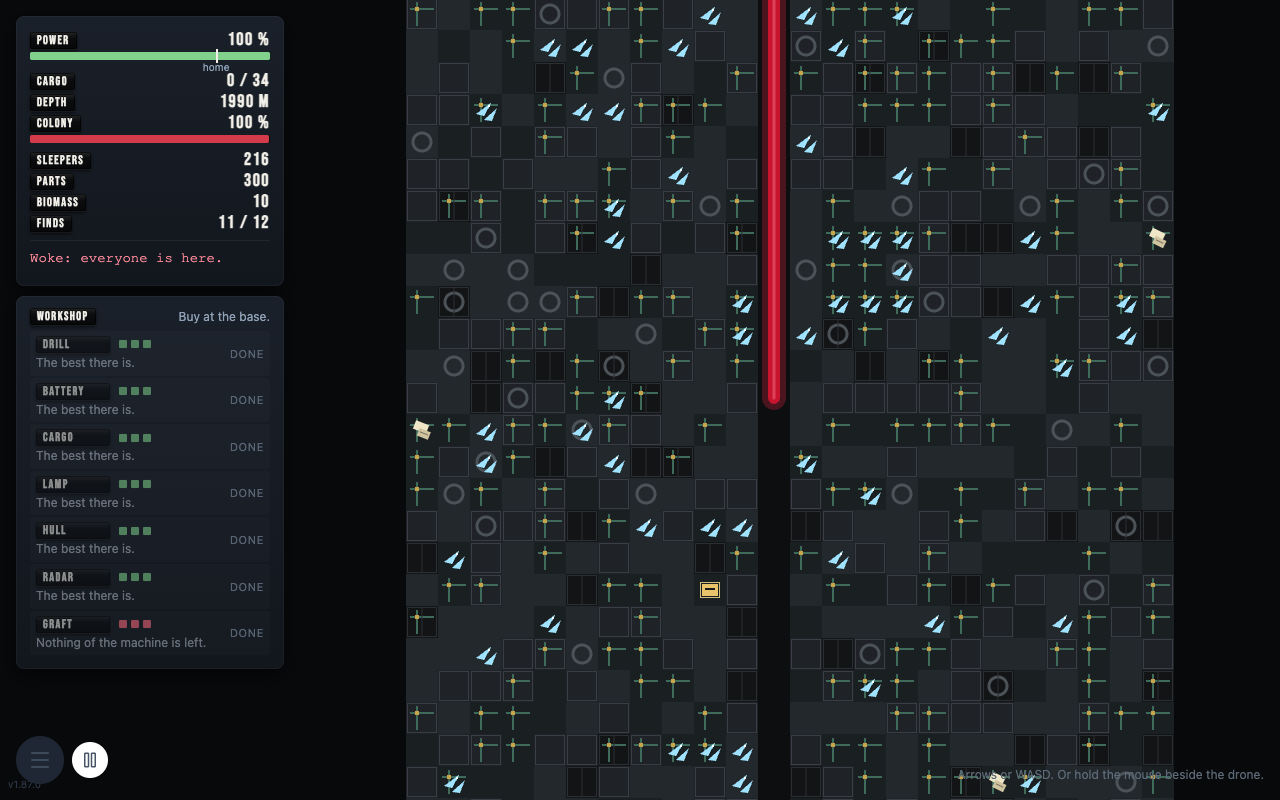
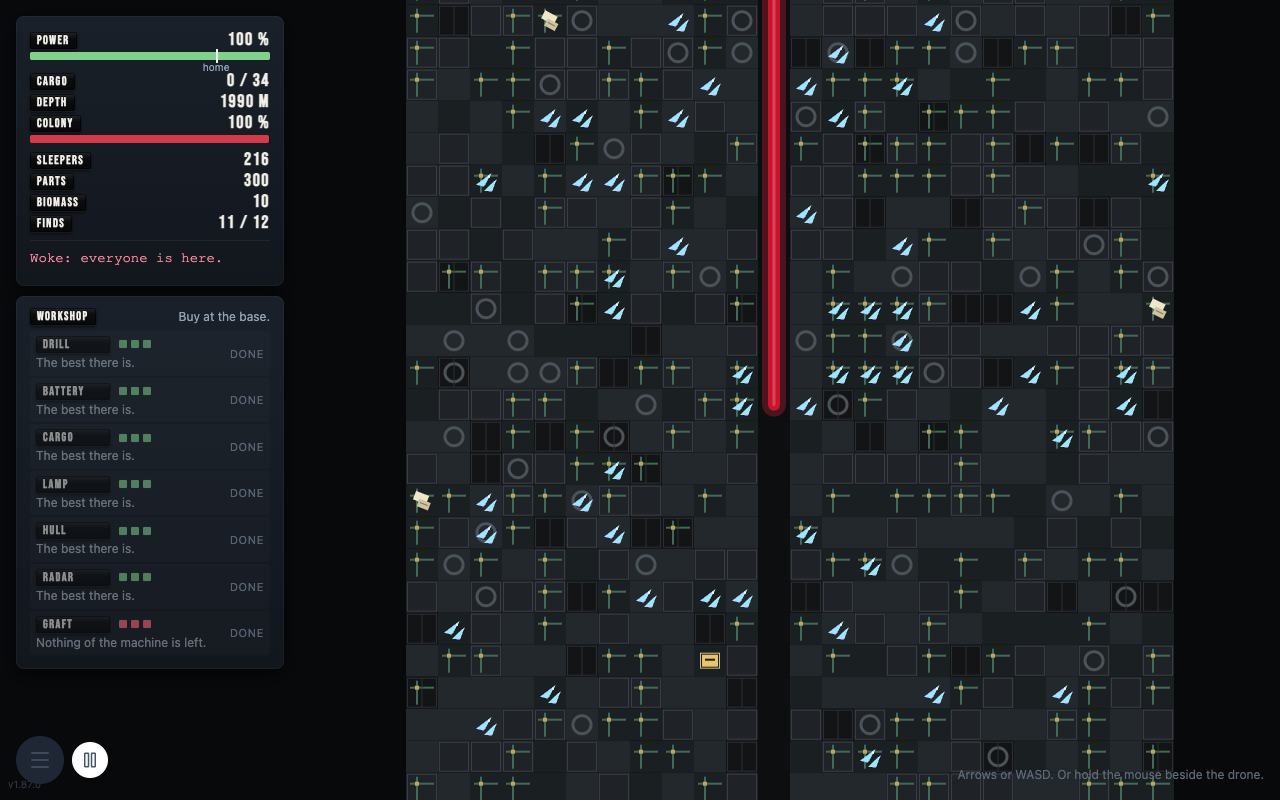
dig: the city layer half lit from above, so the first dives read; play script checks the menu item, a clean teardown, and runs with sound on

diff --git a/src/phase4d/render.js b/src/phase4d/render.js
@@ -197,7 +197,7 @@ export function createRenderer(canvas) {
 
         // ---- the dark: a circle of light around the drone; daylight near the top
         const dx = r.originX + p.x * TS + TS / 2, dy = p.y * TS + TS / 2 - camY;
-        const under = Math.max(0, Math.min(1, (p.y + 1) / 5));
+        const under = Math.max(0, Math.min(1, (p.y + 1) / 14));   // the city layer is still half lit from above
         if (under > 0 && !s.ended) {
             let rad = lampRadius(s) * TS;
             if (mad > 0) rad *= 1 - mad * 0.12 * (hash(Math.floor(t * 9), 5) > 0.8 ? 1 : 0);
